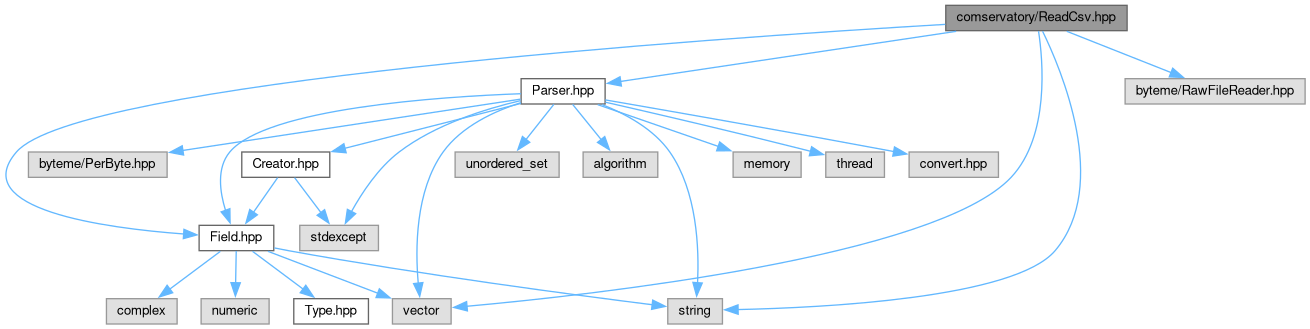
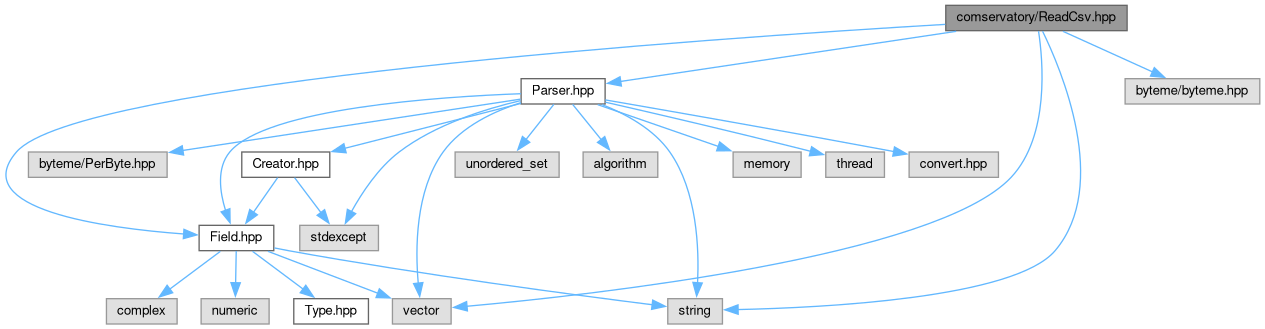
Deploying to gh-pages from @ ArtifactDB/comservatory@23dbaada493801701ff477fba697307410e649ac 🚀

diff --git a/docs/ReadCsv_8hpp_source.html b/docs/ReadCsv_8hpp_source.html
@@ -87,88 +87,84 @@ $(function() {
 <div class="line"><a id="l00007" name="l00007"></a><span class="lineno">    7</span><span class="preprocessor">#include &quot;<a class="code" href="Field_8hpp.html">Field.hpp</a>&quot;</span></div>
 <div class="line"><a id="l00008" name="l00008"></a><span class="lineno">    8</span><span class="preprocessor">#include &quot;<a class="code" href="Parser_8hpp.html">Parser.hpp</a>&quot;</span></div>
 <div class="line"><a id="l00009" name="l00009"></a><span class="lineno">    9</span> </div>
-<div class="line"><a id="l00010" name="l00010"></a><span class="lineno">   10</span><span class="preprocessor">#ifdef COMSERVATORY_USE_ZLIB</span></div>
-<div class="line"><a id="l00011" name="l00011"></a><span class="lineno">   11</span><span class="preprocessor">#include &quot;byteme/SomeFileReader.hpp&quot;</span></div>
-<div class="line"><a id="l00012" name="l00012"></a><span class="lineno">   12</span><span class="preprocessor">#else</span></div>
-<div class="line"><a id="l00013" name="l00013"></a><span class="lineno">   13</span><span class="preprocessor">#include &quot;byteme/RawFileReader.hpp&quot;</span></div>
-<div class="line"><a id="l00014" name="l00014"></a><span class="lineno">   14</span><span class="preprocessor">#endif</span></div>
-<div class="line"><a id="l00015" name="l00015"></a><span class="lineno">   15</span> </div>
-<div class="line"><a id="l00022" name="l00022"></a><span class="lineno">   22</span><span class="keyword">namespace </span><a class="code hl_namespace" href="namespacecomservatory.html">comservatory</a> {</div>
-<div class="line"><a id="l00023" name="l00023"></a><span class="lineno">   23</span> </div>
-<div class="line"><a id="l00027" name="l00027"></a><span class="lineno"><a class="line" href="classcomservatory_1_1ReadCsv.html">   27</a></span><span class="keyword">class </span><a class="code hl_class" href="classcomservatory_1_1ReadCsv.html">ReadCsv</a> {</div>
-<div class="line"><a id="l00028" name="l00028"></a><span class="lineno">   28</span><span class="keyword">public</span>:</div>
-<div class="line"><a id="l00032" name="l00032"></a><span class="lineno"><a class="line" href="classcomservatory_1_1ReadCsv.html#a71b1f3761ad21922489bdccf6df539b4">   32</a></span>    <span class="keywordtype">bool</span> <a class="code hl_variable" href="classcomservatory_1_1ReadCsv.html#a71b1f3761ad21922489bdccf6df539b4">parallel</a> = <span class="keyword">false</span>;</div>
-<div class="line"><a id="l00033" name="l00033"></a><span class="lineno">   33</span> </div>
-<div class="line"><a id="l00038" name="l00038"></a><span class="lineno"><a class="line" href="classcomservatory_1_1ReadCsv.html#a8e0e99b9b76ab2dfc78772350edf4fa3">   38</a></span>    <span class="keywordtype">bool</span> <a class="code hl_variable" href="classcomservatory_1_1ReadCsv.html#a8e0e99b9b76ab2dfc78772350edf4fa3">validate_only</a> = <span class="keyword">false</span>;</div>
-<div class="line"><a id="l00039" name="l00039"></a><span class="lineno">   39</span> </div>
-<div class="line"><a id="l00044" name="l00044"></a><span class="lineno"><a class="line" href="classcomservatory_1_1ReadCsv.html#a7cbd002ff77f75a7622fe0f1661fae8f">   44</a></span>    <span class="keyword">const</span> <a class="code hl_struct" href="structcomservatory_1_1FieldCreator.html">FieldCreator</a>* <a class="code hl_variable" href="classcomservatory_1_1ReadCsv.html#a7cbd002ff77f75a7622fe0f1661fae8f">creator</a> = <span class="keyword">nullptr</span>; </div>
-<div class="line"><a id="l00045" name="l00045"></a><span class="lineno">   45</span> </div>
-<div class="line"><a id="l00050" name="l00050"></a><span class="lineno"><a class="line" href="classcomservatory_1_1ReadCsv.html#add2460c28cdbc9719a158db4ef61516c">   50</a></span>    <span class="keywordtype">bool</span> <a class="code hl_variable" href="classcomservatory_1_1ReadCsv.html#add2460c28cdbc9719a158db4ef61516c">keep_subset</a> = <span class="keyword">false</span>;</div>
-<div class="line"><a id="l00051" name="l00051"></a><span class="lineno">   51</span> </div>
-<div class="line"><a id="l00057" name="l00057"></a><span class="lineno"><a class="line" href="classcomservatory_1_1ReadCsv.html#af9a05178aa2ac853780ca92c4e7b8382">   57</a></span>    std::vector&lt;std::string&gt; <a class="code hl_variable" href="classcomservatory_1_1ReadCsv.html#af9a05178aa2ac853780ca92c4e7b8382">keep_subset_names</a>;</div>
-<div class="line"><a id="l00058" name="l00058"></a><span class="lineno">   58</span> </div>
-<div class="line"><a id="l00065" name="l00065"></a><span class="lineno"><a class="line" href="classcomservatory_1_1ReadCsv.html#a5061fa2455f3ff4c087635de14130e34">   65</a></span>    std::vector&lt;int&gt; <a class="code hl_variable" href="classcomservatory_1_1ReadCsv.html#a5061fa2455f3ff4c087635de14130e34">keep_subset_indices</a>;</div>
-<div class="line"><a id="l00066" name="l00066"></a><span class="lineno">   66</span> </div>
-<div class="line"><a id="l00067" name="l00067"></a><span class="lineno">   67</span><span class="keyword">private</span>:</div>
-<div class="line"><a id="l00068" name="l00068"></a><span class="lineno">   68</span>    <span class="keyword">template</span>&lt;<span class="keyword">class</span> Reader&gt;</div>
-<div class="line"><a id="l00069" name="l00069"></a><span class="lineno">   69</span>    <a class="code hl_struct" href="structcomservatory_1_1Contents.html">Contents</a> load_internal(Reader&amp; reader, <span class="keyword">const</span> <a class="code hl_struct" href="structcomservatory_1_1FieldCreator.html">FieldCreator</a>* <a class="code hl_variable" href="classcomservatory_1_1ReadCsv.html#a7cbd002ff77f75a7622fe0f1661fae8f">creator</a>)<span class="keyword"> const </span>{    </div>
-<div class="line"><a id="l00070" name="l00070"></a><span class="lineno">   70</span>        Parser parser(<a class="code hl_variable" href="classcomservatory_1_1ReadCsv.html#a7cbd002ff77f75a7622fe0f1661fae8f">creator</a>);</div>
-<div class="line"><a id="l00071" name="l00071"></a><span class="lineno">   71</span> </div>
-<div class="line"><a id="l00072" name="l00072"></a><span class="lineno">   72</span>        <span class="keywordflow">if</span> (<a class="code hl_variable" href="classcomservatory_1_1ReadCsv.html#add2460c28cdbc9719a158db4ef61516c">keep_subset</a>) {</div>
-<div class="line"><a id="l00073" name="l00073"></a><span class="lineno">   73</span>            parser.set_check_store(<span class="keyword">true</span>);</div>
-<div class="line"><a id="l00074" name="l00074"></a><span class="lineno">   74</span>            parser.set_store_by_name(<a class="code hl_variable" href="classcomservatory_1_1ReadCsv.html#af9a05178aa2ac853780ca92c4e7b8382">keep_subset_names</a>);</div>
-<div class="line"><a id="l00075" name="l00075"></a><span class="lineno">   75</span>            parser.set_store_by_index(<a class="code hl_variable" href="classcomservatory_1_1ReadCsv.html#a5061fa2455f3ff4c087635de14130e34">keep_subset_indices</a>);</div>
-<div class="line"><a id="l00076" name="l00076"></a><span class="lineno">   76</span>        }</div>
-<div class="line"><a id="l00077" name="l00077"></a><span class="lineno">   77</span> </div>
-<div class="line"><a id="l00078" name="l00078"></a><span class="lineno">   78</span>        <a class="code hl_struct" href="structcomservatory_1_1Contents.html">Contents</a> output;</div>
-<div class="line"><a id="l00079" name="l00079"></a><span class="lineno">   79</span>        parser.parse(reader, output, <a class="code hl_variable" href="classcomservatory_1_1ReadCsv.html#a71b1f3761ad21922489bdccf6df539b4">parallel</a>);</div>
-<div class="line"><a id="l00080" name="l00080"></a><span class="lineno">   80</span>        <span class="keywordflow">return</span> output;</div>
-<div class="line"><a id="l00081" name="l00081"></a><span class="lineno">   81</span>    }</div>
-<div class="line"><a id="l00082" name="l00082"></a><span class="lineno">   82</span> </div>
-<div class="line"><a id="l00083" name="l00083"></a><span class="lineno">   83</span><span class="keyword">public</span>:</div>
-<div class="line"><a id="l00096" name="l00096"></a><span class="lineno">   96</span>    <span class="keyword">template</span>&lt;<span class="keyword">class</span> Reader&gt;</div>
-<div class="line"><a id="l00097" name="l00097"></a><span class="lineno"><a class="line" href="classcomservatory_1_1ReadCsv.html#a87da77b116405a8229f7fafe5fdb87cc">   97</a></span>    <a class="code hl_struct" href="structcomservatory_1_1Contents.html">Contents</a> <a class="code hl_function" href="classcomservatory_1_1ReadCsv.html#a87da77b116405a8229f7fafe5fdb87cc">read</a>(Reader&amp; reader)<span class="keyword"> const </span>{</div>
-<div class="line"><a id="l00098" name="l00098"></a><span class="lineno">   98</span>        <span class="keywordflow">if</span> (<a class="code hl_variable" href="classcomservatory_1_1ReadCsv.html#a8e0e99b9b76ab2dfc78772350edf4fa3">validate_only</a>) {</div>
-<div class="line"><a id="l00099" name="l00099"></a><span class="lineno">   99</span>            DefaultFieldCreator&lt;true&gt; <a class="code hl_variable" href="classcomservatory_1_1ReadCsv.html#a7cbd002ff77f75a7622fe0f1661fae8f">creator</a>;</div>
-<div class="line"><a id="l00100" name="l00100"></a><span class="lineno">  100</span>            <span class="keywordflow">return</span> load_internal(reader, &amp;<a class="code hl_variable" href="classcomservatory_1_1ReadCsv.html#a7cbd002ff77f75a7622fe0f1661fae8f">creator</a>);</div>
-<div class="line"><a id="l00101" name="l00101"></a><span class="lineno">  101</span>        } <span class="keywordflow">else</span> <span class="keywordflow">if</span> (<a class="code hl_variable" href="classcomservatory_1_1ReadCsv.html#a7cbd002ff77f75a7622fe0f1661fae8f">creator</a>) {</div>
-<div class="line"><a id="l00102" name="l00102"></a><span class="lineno">  102</span>            <span class="keywordflow">return</span> load_internal(reader, <a class="code hl_variable" href="classcomservatory_1_1ReadCsv.html#a7cbd002ff77f75a7622fe0f1661fae8f">creator</a>);</div>
-<div class="line"><a id="l00103" name="l00103"></a><span class="lineno">  103</span>        } <span class="keywordflow">else</span> {</div>
-<div class="line"><a id="l00104" name="l00104"></a><span class="lineno">  104</span>            DefaultFieldCreator&lt;false&gt; <a class="code hl_variable" href="classcomservatory_1_1ReadCsv.html#a7cbd002ff77f75a7622fe0f1661fae8f">creator</a>;</div>
-<div class="line"><a id="l00105" name="l00105"></a><span class="lineno">  105</span>            <span class="keywordflow">return</span> load_internal(reader, &amp;<a class="code hl_variable" href="classcomservatory_1_1ReadCsv.html#a7cbd002ff77f75a7622fe0f1661fae8f">creator</a>);</div>
-<div class="line"><a id="l00106" name="l00106"></a><span class="lineno">  106</span>        }</div>
-<div class="line"><a id="l00107" name="l00107"></a><span class="lineno">  107</span>    }</div>
-<div class="line"><a id="l00108" name="l00108"></a><span class="lineno">  108</span> </div>
-<div class="line"><a id="l00109" name="l00109"></a><span class="lineno">  109</span><span class="keyword">public</span>:</div>
-<div class="line"><a id="l00118" name="l00118"></a><span class="lineno"><a class="line" href="classcomservatory_1_1ReadCsv.html#a59dc94d5c58c0c5fa7672b3bbd5a7fb6">  118</a></span>    <a class="code hl_struct" href="structcomservatory_1_1Contents.html">Contents</a> <a class="code hl_function" href="classcomservatory_1_1ReadCsv.html#a59dc94d5c58c0c5fa7672b3bbd5a7fb6">read</a>(<span class="keyword">const</span> <span class="keywordtype">char</span>* path)<span class="keyword"> const </span>{</div>
-<div class="line"><a id="l00119" name="l00119"></a><span class="lineno">  119</span><span class="preprocessor">#ifdef COMSERVATORY_USE_ZLIB</span></div>
-<div class="line"><a id="l00120" name="l00120"></a><span class="lineno">  120</span>        byteme::SomeFileReader reader(path);</div>
-<div class="line"><a id="l00121" name="l00121"></a><span class="lineno">  121</span><span class="preprocessor">#else</span></div>
-<div class="line"><a id="l00122" name="l00122"></a><span class="lineno">  122</span>        byteme::RawFileReader reader(path);</div>
-<div class="line"><a id="l00123" name="l00123"></a><span class="lineno">  123</span><span class="preprocessor">#endif</span></div>
-<div class="line"><a id="l00124" name="l00124"></a><span class="lineno">  124</span>        <span class="keywordflow">return</span> <a class="code hl_function" href="classcomservatory_1_1ReadCsv.html#a87da77b116405a8229f7fafe5fdb87cc">read</a>(reader);</div>
-<div class="line"><a id="l00125" name="l00125"></a><span class="lineno">  125</span>    } </div>
-<div class="line"><a id="l00126" name="l00126"></a><span class="lineno">  126</span> </div>
-<div class="line"><a id="l00135" name="l00135"></a><span class="lineno"><a class="line" href="classcomservatory_1_1ReadCsv.html#acb2534a52ee60e6bc0d37c701fc6e895">  135</a></span>    <a class="code hl_struct" href="structcomservatory_1_1Contents.html">Contents</a> <a class="code hl_function" href="classcomservatory_1_1ReadCsv.html#acb2534a52ee60e6bc0d37c701fc6e895">read</a>(std::string path)<span class="keyword"> const </span>{</div>
-<div class="line"><a id="l00136" name="l00136"></a><span class="lineno">  136</span>        <span class="keywordflow">return</span> <a class="code hl_function" href="classcomservatory_1_1ReadCsv.html#a87da77b116405a8229f7fafe5fdb87cc">read</a>(path.c_str());</div>
-<div class="line"><a id="l00137" name="l00137"></a><span class="lineno">  137</span>    } </div>
-<div class="line"><a id="l00138" name="l00138"></a><span class="lineno">  138</span>};</div>
-<div class="line"><a id="l00139" name="l00139"></a><span class="lineno">  139</span> </div>
-<div class="line"><a id="l00140" name="l00140"></a><span class="lineno">  140</span>}</div>
-<div class="line"><a id="l00141" name="l00141"></a><span class="lineno">  141</span> </div>
-<div class="line"><a id="l00142" name="l00142"></a><span class="lineno">  142</span><span class="preprocessor">#endif</span></div>
+<div class="line"><a id="l00010" name="l00010"></a><span class="lineno">   10</span><span class="preprocessor">#include &quot;byteme/byteme.hpp&quot;</span></div>
+<div class="line"><a id="l00011" name="l00011"></a><span class="lineno">   11</span> </div>
+<div class="line"><a id="l00018" name="l00018"></a><span class="lineno">   18</span><span class="keyword">namespace </span><a class="code hl_namespace" href="namespacecomservatory.html">comservatory</a> {</div>
+<div class="line"><a id="l00019" name="l00019"></a><span class="lineno">   19</span> </div>
+<div class="line"><a id="l00023" name="l00023"></a><span class="lineno"><a class="line" href="classcomservatory_1_1ReadCsv.html">   23</a></span><span class="keyword">class </span><a class="code hl_class" href="classcomservatory_1_1ReadCsv.html">ReadCsv</a> {</div>
+<div class="line"><a id="l00024" name="l00024"></a><span class="lineno">   24</span><span class="keyword">public</span>:</div>
+<div class="line"><a id="l00028" name="l00028"></a><span class="lineno"><a class="line" href="classcomservatory_1_1ReadCsv.html#a71b1f3761ad21922489bdccf6df539b4">   28</a></span>    <span class="keywordtype">bool</span> <a class="code hl_variable" href="classcomservatory_1_1ReadCsv.html#a71b1f3761ad21922489bdccf6df539b4">parallel</a> = <span class="keyword">false</span>;</div>
+<div class="line"><a id="l00029" name="l00029"></a><span class="lineno">   29</span> </div>
+<div class="line"><a id="l00034" name="l00034"></a><span class="lineno"><a class="line" href="classcomservatory_1_1ReadCsv.html#a8e0e99b9b76ab2dfc78772350edf4fa3">   34</a></span>    <span class="keywordtype">bool</span> <a class="code hl_variable" href="classcomservatory_1_1ReadCsv.html#a8e0e99b9b76ab2dfc78772350edf4fa3">validate_only</a> = <span class="keyword">false</span>;</div>
+<div class="line"><a id="l00035" name="l00035"></a><span class="lineno">   35</span> </div>
+<div class="line"><a id="l00040" name="l00040"></a><span class="lineno"><a class="line" href="classcomservatory_1_1ReadCsv.html#a7cbd002ff77f75a7622fe0f1661fae8f">   40</a></span>    <span class="keyword">const</span> <a class="code hl_struct" href="structcomservatory_1_1FieldCreator.html">FieldCreator</a>* <a class="code hl_variable" href="classcomservatory_1_1ReadCsv.html#a7cbd002ff77f75a7622fe0f1661fae8f">creator</a> = <span class="keyword">nullptr</span>; </div>
+<div class="line"><a id="l00041" name="l00041"></a><span class="lineno">   41</span> </div>
+<div class="line"><a id="l00046" name="l00046"></a><span class="lineno"><a class="line" href="classcomservatory_1_1ReadCsv.html#add2460c28cdbc9719a158db4ef61516c">   46</a></span>    <span class="keywordtype">bool</span> <a class="code hl_variable" href="classcomservatory_1_1ReadCsv.html#add2460c28cdbc9719a158db4ef61516c">keep_subset</a> = <span class="keyword">false</span>;</div>
+<div class="line"><a id="l00047" name="l00047"></a><span class="lineno">   47</span> </div>
+<div class="line"><a id="l00053" name="l00053"></a><span class="lineno"><a class="line" href="classcomservatory_1_1ReadCsv.html#af9a05178aa2ac853780ca92c4e7b8382">   53</a></span>    std::vector&lt;std::string&gt; <a class="code hl_variable" href="classcomservatory_1_1ReadCsv.html#af9a05178aa2ac853780ca92c4e7b8382">keep_subset_names</a>;</div>
+<div class="line"><a id="l00054" name="l00054"></a><span class="lineno">   54</span> </div>
+<div class="line"><a id="l00061" name="l00061"></a><span class="lineno"><a class="line" href="classcomservatory_1_1ReadCsv.html#a5061fa2455f3ff4c087635de14130e34">   61</a></span>    std::vector&lt;int&gt; <a class="code hl_variable" href="classcomservatory_1_1ReadCsv.html#a5061fa2455f3ff4c087635de14130e34">keep_subset_indices</a>;</div>
+<div class="line"><a id="l00062" name="l00062"></a><span class="lineno">   62</span> </div>
+<div class="line"><a id="l00063" name="l00063"></a><span class="lineno">   63</span><span class="keyword">private</span>:</div>
+<div class="line"><a id="l00064" name="l00064"></a><span class="lineno">   64</span>    <span class="keyword">template</span>&lt;<span class="keyword">class</span> Reader&gt;</div>
+<div class="line"><a id="l00065" name="l00065"></a><span class="lineno">   65</span>    <a class="code hl_struct" href="structcomservatory_1_1Contents.html">Contents</a> load_internal(Reader&amp; reader, <span class="keyword">const</span> <a class="code hl_struct" href="structcomservatory_1_1FieldCreator.html">FieldCreator</a>* <a class="code hl_variable" href="classcomservatory_1_1ReadCsv.html#a7cbd002ff77f75a7622fe0f1661fae8f">creator</a>)<span class="keyword"> const </span>{    </div>
+<div class="line"><a id="l00066" name="l00066"></a><span class="lineno">   66</span>        Parser parser(<a class="code hl_variable" href="classcomservatory_1_1ReadCsv.html#a7cbd002ff77f75a7622fe0f1661fae8f">creator</a>);</div>
+<div class="line"><a id="l00067" name="l00067"></a><span class="lineno">   67</span> </div>
+<div class="line"><a id="l00068" name="l00068"></a><span class="lineno">   68</span>        <span class="keywordflow">if</span> (<a class="code hl_variable" href="classcomservatory_1_1ReadCsv.html#add2460c28cdbc9719a158db4ef61516c">keep_subset</a>) {</div>
+<div class="line"><a id="l00069" name="l00069"></a><span class="lineno">   69</span>            parser.set_check_store(<span class="keyword">true</span>);</div>
+<div class="line"><a id="l00070" name="l00070"></a><span class="lineno">   70</span>            parser.set_store_by_name(<a class="code hl_variable" href="classcomservatory_1_1ReadCsv.html#af9a05178aa2ac853780ca92c4e7b8382">keep_subset_names</a>);</div>
+<div class="line"><a id="l00071" name="l00071"></a><span class="lineno">   71</span>            parser.set_store_by_index(<a class="code hl_variable" href="classcomservatory_1_1ReadCsv.html#a5061fa2455f3ff4c087635de14130e34">keep_subset_indices</a>);</div>
+<div class="line"><a id="l00072" name="l00072"></a><span class="lineno">   72</span>        }</div>
+<div class="line"><a id="l00073" name="l00073"></a><span class="lineno">   73</span> </div>
+<div class="line"><a id="l00074" name="l00074"></a><span class="lineno">   74</span>        <a class="code hl_struct" href="structcomservatory_1_1Contents.html">Contents</a> output;</div>
+<div class="line"><a id="l00075" name="l00075"></a><span class="lineno">   75</span>        parser.parse(reader, output, <a class="code hl_variable" href="classcomservatory_1_1ReadCsv.html#a71b1f3761ad21922489bdccf6df539b4">parallel</a>);</div>
+<div class="line"><a id="l00076" name="l00076"></a><span class="lineno">   76</span>        <span class="keywordflow">return</span> output;</div>
+<div class="line"><a id="l00077" name="l00077"></a><span class="lineno">   77</span>    }</div>
+<div class="line"><a id="l00078" name="l00078"></a><span class="lineno">   78</span> </div>
+<div class="line"><a id="l00079" name="l00079"></a><span class="lineno">   79</span><span class="keyword">public</span>:</div>
+<div class="line"><a id="l00092" name="l00092"></a><span class="lineno">   92</span>    <span class="keyword">template</span>&lt;<span class="keyword">class</span> Reader&gt;</div>
+<div class="line"><a id="l00093" name="l00093"></a><span class="lineno"><a class="line" href="classcomservatory_1_1ReadCsv.html#a87da77b116405a8229f7fafe5fdb87cc">   93</a></span>    <a class="code hl_struct" href="structcomservatory_1_1Contents.html">Contents</a> <a class="code hl_function" href="classcomservatory_1_1ReadCsv.html#a87da77b116405a8229f7fafe5fdb87cc">read</a>(Reader&amp; reader)<span class="keyword"> const </span>{</div>
+<div class="line"><a id="l00094" name="l00094"></a><span class="lineno">   94</span>        <span class="keywordflow">if</span> (<a class="code hl_variable" href="classcomservatory_1_1ReadCsv.html#a8e0e99b9b76ab2dfc78772350edf4fa3">validate_only</a>) {</div>
+<div class="line"><a id="l00095" name="l00095"></a><span class="lineno">   95</span>            DefaultFieldCreator&lt;true&gt; <a class="code hl_variable" href="classcomservatory_1_1ReadCsv.html#a7cbd002ff77f75a7622fe0f1661fae8f">creator</a>;</div>
+<div class="line"><a id="l00096" name="l00096"></a><span class="lineno">   96</span>            <span class="keywordflow">return</span> load_internal(reader, &amp;<a class="code hl_variable" href="classcomservatory_1_1ReadCsv.html#a7cbd002ff77f75a7622fe0f1661fae8f">creator</a>);</div>
+<div class="line"><a id="l00097" name="l00097"></a><span class="lineno">   97</span>        } <span class="keywordflow">else</span> <span class="keywordflow">if</span> (<a class="code hl_variable" href="classcomservatory_1_1ReadCsv.html#a7cbd002ff77f75a7622fe0f1661fae8f">creator</a>) {</div>
+<div class="line"><a id="l00098" name="l00098"></a><span class="lineno">   98</span>            <span class="keywordflow">return</span> load_internal(reader, <a class="code hl_variable" href="classcomservatory_1_1ReadCsv.html#a7cbd002ff77f75a7622fe0f1661fae8f">creator</a>);</div>
+<div class="line"><a id="l00099" name="l00099"></a><span class="lineno">   99</span>        } <span class="keywordflow">else</span> {</div>
+<div class="line"><a id="l00100" name="l00100"></a><span class="lineno">  100</span>            DefaultFieldCreator&lt;false&gt; <a class="code hl_variable" href="classcomservatory_1_1ReadCsv.html#a7cbd002ff77f75a7622fe0f1661fae8f">creator</a>;</div>
+<div class="line"><a id="l00101" name="l00101"></a><span class="lineno">  101</span>            <span class="keywordflow">return</span> load_internal(reader, &amp;<a class="code hl_variable" href="classcomservatory_1_1ReadCsv.html#a7cbd002ff77f75a7622fe0f1661fae8f">creator</a>);</div>
+<div class="line"><a id="l00102" name="l00102"></a><span class="lineno">  102</span>        }</div>
+<div class="line"><a id="l00103" name="l00103"></a><span class="lineno">  103</span>    }</div>
+<div class="line"><a id="l00104" name="l00104"></a><span class="lineno">  104</span> </div>
+<div class="line"><a id="l00105" name="l00105"></a><span class="lineno">  105</span><span class="keyword">public</span>:</div>
+<div class="line"><a id="l00113" name="l00113"></a><span class="lineno"><a class="line" href="classcomservatory_1_1ReadCsv.html#a59dc94d5c58c0c5fa7672b3bbd5a7fb6">  113</a></span>    <a class="code hl_struct" href="structcomservatory_1_1Contents.html">Contents</a> <a class="code hl_function" href="classcomservatory_1_1ReadCsv.html#a59dc94d5c58c0c5fa7672b3bbd5a7fb6">read</a>(<span class="keyword">const</span> <span class="keywordtype">char</span>* path)<span class="keyword"> const </span>{</div>
+<div class="line"><a id="l00114" name="l00114"></a><span class="lineno">  114</span><span class="preprocessor">#if __has_include(&quot;zlib.h&quot;</span>)</div>
+<div class="line"><a id="l00115" name="l00115"></a><span class="lineno">  115</span>        byteme::SomeFileReader reader(path);</div>
+<div class="line"><a id="l00116" name="l00116"></a><span class="lineno">  116</span><span class="preprocessor">#else</span></div>
+<div class="line"><a id="l00117" name="l00117"></a><span class="lineno">  117</span>        byteme::RawFileReader reader(path);</div>
+<div class="line"><a id="l00118" name="l00118"></a><span class="lineno">  118</span><span class="preprocessor">#endif</span></div>
+<div class="line"><a id="l00119" name="l00119"></a><span class="lineno">  119</span>        <span class="keywordflow">return</span> <a class="code hl_function" href="classcomservatory_1_1ReadCsv.html#a87da77b116405a8229f7fafe5fdb87cc">read</a>(reader);</div>
+<div class="line"><a id="l00120" name="l00120"></a><span class="lineno">  120</span>    } </div>
+<div class="line"><a id="l00121" name="l00121"></a><span class="lineno">  121</span> </div>
+<div class="line"><a id="l00129" name="l00129"></a><span class="lineno"><a class="line" href="classcomservatory_1_1ReadCsv.html#acb2534a52ee60e6bc0d37c701fc6e895">  129</a></span>    <a class="code hl_struct" href="structcomservatory_1_1Contents.html">Contents</a> <a class="code hl_function" href="classcomservatory_1_1ReadCsv.html#acb2534a52ee60e6bc0d37c701fc6e895">read</a>(std::string path)<span class="keyword"> const </span>{</div>
+<div class="line"><a id="l00130" name="l00130"></a><span class="lineno">  130</span>        <span class="keywordflow">return</span> <a class="code hl_function" href="classcomservatory_1_1ReadCsv.html#a87da77b116405a8229f7fafe5fdb87cc">read</a>(path.c_str());</div>
+<div class="line"><a id="l00131" name="l00131"></a><span class="lineno">  131</span>    } </div>
+<div class="line"><a id="l00132" name="l00132"></a><span class="lineno">  132</span>};</div>
+<div class="line"><a id="l00133" name="l00133"></a><span class="lineno">  133</span> </div>
+<div class="line"><a id="l00134" name="l00134"></a><span class="lineno">  134</span>}</div>
+<div class="line"><a id="l00135" name="l00135"></a><span class="lineno">  135</span> </div>
+<div class="line"><a id="l00136" name="l00136"></a><span class="lineno">  136</span><span class="preprocessor">#endif</span></div>
 <div class="ttc" id="aField_8hpp_html"><div class="ttname"><a href="Field_8hpp.html">Field.hpp</a></div><div class="ttdoc">Defines the Field virtual class and concrete implementations.</div></div>
 <div class="ttc" id="aParser_8hpp_html"><div class="ttname"><a href="Parser_8hpp.html">Parser.hpp</a></div><div class="ttdoc">Defines the Contents class for storing the CSV contents.</div></div>
-<div class="ttc" id="aclasscomservatory_1_1ReadCsv_html"><div class="ttname"><a href="classcomservatory_1_1ReadCsv.html">comservatory::ReadCsv</a></div><div class="ttdoc">Read the contents of CSV files into memory.</div><div class="ttdef"><b>Definition:</b> ReadCsv.hpp:27</div></div>
-<div class="ttc" id="aclasscomservatory_1_1ReadCsv_html_a5061fa2455f3ff4c087635de14130e34"><div class="ttname"><a href="classcomservatory_1_1ReadCsv.html#a5061fa2455f3ff4c087635de14130e34">comservatory::ReadCsv::keep_subset_indices</a></div><div class="ttdeci">std::vector&lt; int &gt; keep_subset_indices</div><div class="ttdef"><b>Definition:</b> ReadCsv.hpp:65</div></div>
-<div class="ttc" id="aclasscomservatory_1_1ReadCsv_html_a59dc94d5c58c0c5fa7672b3bbd5a7fb6"><div class="ttname"><a href="classcomservatory_1_1ReadCsv.html#a59dc94d5c58c0c5fa7672b3bbd5a7fb6">comservatory::ReadCsv::read</a></div><div class="ttdeci">Contents read(const char *path) const</div><div class="ttdef"><b>Definition:</b> ReadCsv.hpp:118</div></div>
-<div class="ttc" id="aclasscomservatory_1_1ReadCsv_html_a71b1f3761ad21922489bdccf6df539b4"><div class="ttname"><a href="classcomservatory_1_1ReadCsv.html#a71b1f3761ad21922489bdccf6df539b4">comservatory::ReadCsv::parallel</a></div><div class="ttdeci">bool parallel</div><div class="ttdef"><b>Definition:</b> ReadCsv.hpp:32</div></div>
-<div class="ttc" id="aclasscomservatory_1_1ReadCsv_html_a7cbd002ff77f75a7622fe0f1661fae8f"><div class="ttname"><a href="classcomservatory_1_1ReadCsv.html#a7cbd002ff77f75a7622fe0f1661fae8f">comservatory::ReadCsv::creator</a></div><div class="ttdeci">const FieldCreator * creator</div><div class="ttdef"><b>Definition:</b> ReadCsv.hpp:44</div></div>
-<div class="ttc" id="aclasscomservatory_1_1ReadCsv_html_a87da77b116405a8229f7fafe5fdb87cc"><div class="ttname"><a href="classcomservatory_1_1ReadCsv.html#a87da77b116405a8229f7fafe5fdb87cc">comservatory::ReadCsv::read</a></div><div class="ttdeci">Contents read(Reader &amp;reader) const</div><div class="ttdef"><b>Definition:</b> ReadCsv.hpp:97</div></div>
-<div class="ttc" id="aclasscomservatory_1_1ReadCsv_html_a8e0e99b9b76ab2dfc78772350edf4fa3"><div class="ttname"><a href="classcomservatory_1_1ReadCsv.html#a8e0e99b9b76ab2dfc78772350edf4fa3">comservatory::ReadCsv::validate_only</a></div><div class="ttdeci">bool validate_only</div><div class="ttdef"><b>Definition:</b> ReadCsv.hpp:38</div></div>
-<div class="ttc" id="aclasscomservatory_1_1ReadCsv_html_acb2534a52ee60e6bc0d37c701fc6e895"><div class="ttname"><a href="classcomservatory_1_1ReadCsv.html#acb2534a52ee60e6bc0d37c701fc6e895">comservatory::ReadCsv::read</a></div><div class="ttdeci">Contents read(std::string path) const</div><div class="ttdef"><b>Definition:</b> ReadCsv.hpp:135</div></div>
-<div class="ttc" id="aclasscomservatory_1_1ReadCsv_html_add2460c28cdbc9719a158db4ef61516c"><div class="ttname"><a href="classcomservatory_1_1ReadCsv.html#add2460c28cdbc9719a158db4ef61516c">comservatory::ReadCsv::keep_subset</a></div><div class="ttdeci">bool keep_subset</div><div class="ttdef"><b>Definition:</b> ReadCsv.hpp:50</div></div>
-<div class="ttc" id="aclasscomservatory_1_1ReadCsv_html_af9a05178aa2ac853780ca92c4e7b8382"><div class="ttname"><a href="classcomservatory_1_1ReadCsv.html#af9a05178aa2ac853780ca92c4e7b8382">comservatory::ReadCsv::keep_subset_names</a></div><div class="ttdeci">std::vector&lt; std::string &gt; keep_subset_names</div><div class="ttdef"><b>Definition:</b> ReadCsv.hpp:57</div></div>
+<div class="ttc" id="aclasscomservatory_1_1ReadCsv_html"><div class="ttname"><a href="classcomservatory_1_1ReadCsv.html">comservatory::ReadCsv</a></div><div class="ttdoc">Read the contents of CSV files into memory.</div><div class="ttdef"><b>Definition:</b> ReadCsv.hpp:23</div></div>
+<div class="ttc" id="aclasscomservatory_1_1ReadCsv_html_a5061fa2455f3ff4c087635de14130e34"><div class="ttname"><a href="classcomservatory_1_1ReadCsv.html#a5061fa2455f3ff4c087635de14130e34">comservatory::ReadCsv::keep_subset_indices</a></div><div class="ttdeci">std::vector&lt; int &gt; keep_subset_indices</div><div class="ttdef"><b>Definition:</b> ReadCsv.hpp:61</div></div>
+<div class="ttc" id="aclasscomservatory_1_1ReadCsv_html_a59dc94d5c58c0c5fa7672b3bbd5a7fb6"><div class="ttname"><a href="classcomservatory_1_1ReadCsv.html#a59dc94d5c58c0c5fa7672b3bbd5a7fb6">comservatory::ReadCsv::read</a></div><div class="ttdeci">Contents read(const char *path) const</div><div class="ttdef"><b>Definition:</b> ReadCsv.hpp:113</div></div>
+<div class="ttc" id="aclasscomservatory_1_1ReadCsv_html_a71b1f3761ad21922489bdccf6df539b4"><div class="ttname"><a href="classcomservatory_1_1ReadCsv.html#a71b1f3761ad21922489bdccf6df539b4">comservatory::ReadCsv::parallel</a></div><div class="ttdeci">bool parallel</div><div class="ttdef"><b>Definition:</b> ReadCsv.hpp:28</div></div>
+<div class="ttc" id="aclasscomservatory_1_1ReadCsv_html_a7cbd002ff77f75a7622fe0f1661fae8f"><div class="ttname"><a href="classcomservatory_1_1ReadCsv.html#a7cbd002ff77f75a7622fe0f1661fae8f">comservatory::ReadCsv::creator</a></div><div class="ttdeci">const FieldCreator * creator</div><div class="ttdef"><b>Definition:</b> ReadCsv.hpp:40</div></div>
+<div class="ttc" id="aclasscomservatory_1_1ReadCsv_html_a87da77b116405a8229f7fafe5fdb87cc"><div class="ttname"><a href="classcomservatory_1_1ReadCsv.html#a87da77b116405a8229f7fafe5fdb87cc">comservatory::ReadCsv::read</a></div><div class="ttdeci">Contents read(Reader &amp;reader) const</div><div class="ttdef"><b>Definition:</b> ReadCsv.hpp:93</div></div>
+<div class="ttc" id="aclasscomservatory_1_1ReadCsv_html_a8e0e99b9b76ab2dfc78772350edf4fa3"><div class="ttname"><a href="classcomservatory_1_1ReadCsv.html#a8e0e99b9b76ab2dfc78772350edf4fa3">comservatory::ReadCsv::validate_only</a></div><div class="ttdeci">bool validate_only</div><div class="ttdef"><b>Definition:</b> ReadCsv.hpp:34</div></div>
+<div class="ttc" id="aclasscomservatory_1_1ReadCsv_html_acb2534a52ee60e6bc0d37c701fc6e895"><div class="ttname"><a href="classcomservatory_1_1ReadCsv.html#acb2534a52ee60e6bc0d37c701fc6e895">comservatory::ReadCsv::read</a></div><div class="ttdeci">Contents read(std::string path) const</div><div class="ttdef"><b>Definition:</b> ReadCsv.hpp:129</div></div>
+<div class="ttc" id="aclasscomservatory_1_1ReadCsv_html_add2460c28cdbc9719a158db4ef61516c"><div class="ttname"><a href="classcomservatory_1_1ReadCsv.html#add2460c28cdbc9719a158db4ef61516c">comservatory::ReadCsv::keep_subset</a></div><div class="ttdeci">bool keep_subset</div><div class="ttdef"><b>Definition:</b> ReadCsv.hpp:46</div></div>
+<div class="ttc" id="aclasscomservatory_1_1ReadCsv_html_af9a05178aa2ac853780ca92c4e7b8382"><div class="ttname"><a href="classcomservatory_1_1ReadCsv.html#af9a05178aa2ac853780ca92c4e7b8382">comservatory::ReadCsv::keep_subset_names</a></div><div class="ttdeci">std::vector&lt; std::string &gt; keep_subset_names</div><div class="ttdef"><b>Definition:</b> ReadCsv.hpp:53</div></div>
 <div class="ttc" id="anamespacecomservatory_html"><div class="ttname"><a href="namespacecomservatory.html">comservatory</a></div><div class="ttdoc">Contains all comservatory functions and classes.</div><div class="ttdef"><b>Definition:</b> Field.hpp:16</div></div>
 <div class="ttc" id="astructcomservatory_1_1Contents_html"><div class="ttname"><a href="structcomservatory_1_1Contents.html">comservatory::Contents</a></div><div class="ttdoc">The parsed contents of a CSV file.</div><div class="ttdef"><b>Definition:</b> Parser.hpp:37</div></div>
 <div class="ttc" id="astructcomservatory_1_1FieldCreator_html"><div class="ttname"><a href="structcomservatory_1_1FieldCreator.html">comservatory::FieldCreator</a></div><div class="ttdoc">Virtual base class for a Field creator.</div><div class="ttdef"><b>Definition:</b> Creator.hpp:23</div></div>

diff --git a/docs/index.html b/docs/index.html
@@ -163,10 +163,10 @@ $(function() {
 <div class="line">reader.<a class="code hl_variable" href="classcomservatory_1_1ReadCsv.html#a5061fa2455f3ff4c087635de14130e34">keep_subset_indices</a> = std::vector&lt;int&gt;{ 3, 4 };</div>
 <div class="line"> </div>
 <div class="line"><span class="keyword">auto</span> contents = reader.<a class="code hl_function" href="classcomservatory_1_1ReadCsv.html#a87da77b116405a8229f7fafe5fdb87cc">read</a>(path);</div>
-<div class="ttc" id="aclasscomservatory_1_1ReadCsv_html"><div class="ttname"><a href="classcomservatory_1_1ReadCsv.html">comservatory::ReadCsv</a></div><div class="ttdoc">Read the contents of CSV files into memory.</div><div class="ttdef"><b>Definition:</b> ReadCsv.hpp:27</div></div>
-<div class="ttc" id="aclasscomservatory_1_1ReadCsv_html_a5061fa2455f3ff4c087635de14130e34"><div class="ttname"><a href="classcomservatory_1_1ReadCsv.html#a5061fa2455f3ff4c087635de14130e34">comservatory::ReadCsv::keep_subset_indices</a></div><div class="ttdeci">std::vector&lt; int &gt; keep_subset_indices</div><div class="ttdef"><b>Definition:</b> ReadCsv.hpp:65</div></div>
-<div class="ttc" id="aclasscomservatory_1_1ReadCsv_html_a87da77b116405a8229f7fafe5fdb87cc"><div class="ttname"><a href="classcomservatory_1_1ReadCsv.html#a87da77b116405a8229f7fafe5fdb87cc">comservatory::ReadCsv::read</a></div><div class="ttdeci">Contents read(Reader &amp;reader) const</div><div class="ttdef"><b>Definition:</b> ReadCsv.hpp:97</div></div>
-<div class="ttc" id="aclasscomservatory_1_1ReadCsv_html_af9a05178aa2ac853780ca92c4e7b8382"><div class="ttname"><a href="classcomservatory_1_1ReadCsv.html#af9a05178aa2ac853780ca92c4e7b8382">comservatory::ReadCsv::keep_subset_names</a></div><div class="ttdeci">std::vector&lt; std::string &gt; keep_subset_names</div><div class="ttdef"><b>Definition:</b> ReadCsv.hpp:57</div></div>
+<div class="ttc" id="aclasscomservatory_1_1ReadCsv_html"><div class="ttname"><a href="classcomservatory_1_1ReadCsv.html">comservatory::ReadCsv</a></div><div class="ttdoc">Read the contents of CSV files into memory.</div><div class="ttdef"><b>Definition:</b> ReadCsv.hpp:23</div></div>
+<div class="ttc" id="aclasscomservatory_1_1ReadCsv_html_a5061fa2455f3ff4c087635de14130e34"><div class="ttname"><a href="classcomservatory_1_1ReadCsv.html#a5061fa2455f3ff4c087635de14130e34">comservatory::ReadCsv::keep_subset_indices</a></div><div class="ttdeci">std::vector&lt; int &gt; keep_subset_indices</div><div class="ttdef"><b>Definition:</b> ReadCsv.hpp:61</div></div>
+<div class="ttc" id="aclasscomservatory_1_1ReadCsv_html_a87da77b116405a8229f7fafe5fdb87cc"><div class="ttname"><a href="classcomservatory_1_1ReadCsv.html#a87da77b116405a8229f7fafe5fdb87cc">comservatory::ReadCsv::read</a></div><div class="ttdeci">Contents read(Reader &amp;reader) const</div><div class="ttdef"><b>Definition:</b> ReadCsv.hpp:93</div></div>
+<div class="ttc" id="aclasscomservatory_1_1ReadCsv_html_af9a05178aa2ac853780ca92c4e7b8382"><div class="ttname"><a href="classcomservatory_1_1ReadCsv.html#af9a05178aa2ac853780ca92c4e7b8382">comservatory::ReadCsv::keep_subset_names</a></div><div class="ttdeci">std::vector&lt; std::string &gt; keep_subset_names</div><div class="ttdef"><b>Definition:</b> ReadCsv.hpp:53</div></div>
 </div><!-- fragment --><p >If only validation is required, we can avoid storing contents in memory by setting <code>validate_only = true</code>.</p>
 <div class="fragment"><div class="line">comservatory::ReadCsv reader;</div>
 <div class="line">reader.validate_only = true;</div>
@@ -201,10 +201,8 @@ $(function() {
 </div><!-- fragment --><h3>Manual</h3>
 <p >If you're not using CMake, the simple approach is to just copy the files in the <code>include/</code> subdirectory - either directly or with Git submodules - and include their path during compilation with, e.g., GCC's <code>-I</code>. You will also need to link to <a href="https://github.com/LTLA/byteme"><b>byteme</b></a> directory, along with the Zlib library.</p>
 <h2>Handling other inputs</h2>
-<p >Gzipped CSVs are supported by <code>load()</code> once the <code>COMSERVATORY_USE_ZLIB</code> macro is defined and the library is linked to Zlib. With CMake, this usually involves the following commands:</p>
-<div class="fragment"><div class="line">target_compile_definitions(libtest PRIVATE COMSERVATORY_USE_ZLIB=1)</div>
-<div class="line">target_link_libraries(libtest ZLIB::ZLIB)</div>
-</div><!-- fragment --><p >Other inputs are supported via the <code>load()</code> overload for <a href="https://github.com/LTLA/byteme"><code>byteme::Reader</code></a> classes. For example, we can parse a CSV file from an in-memory Zlib-compressed buffer:</p>
+<p >Gzipped CSVs are automatically supported by <code>load()</code> once <b>comservatory</b> is compiled with Zlib support.</p>
+<p >Other inputs are supported via the <code>load()</code> overload for <a href="https://github.com/LTLA/byteme"><code>byteme::Reader</code></a> classes. For example, we can parse a CSV file from an in-memory Zlib-compressed buffer:</p>
 <div class="fragment"><div class="line"><span class="preprocessor">#include &quot;byteme/ZlibBufferReader.hpp&quot;</span></div>
 <div class="line"> </div>
 <div class="line">byteme::ZlibBufferReader reader(buffer, length);</div>
@@ -302,7 +300,7 @@ $(function() {
 <div class="line"><a class="code hl_class" href="classcomservatory_1_1ReadCsv.html">comservatory::ReadCsv</a> reader;</div>
 <div class="line">reader.<a class="code hl_variable" href="classcomservatory_1_1ReadCsv.html#a7cbd002ff77f75a7622fe0f1661fae8f">creator</a> = &amp;custom;</div>
 <div class="line"><span class="keyword">auto</span> deqcontents = reader.<a class="code hl_function" href="classcomservatory_1_1ReadCsv.html#a87da77b116405a8229f7fafe5fdb87cc">read</a>(path);</div>
-<div class="ttc" id="aclasscomservatory_1_1ReadCsv_html_a7cbd002ff77f75a7622fe0f1661fae8f"><div class="ttname"><a href="classcomservatory_1_1ReadCsv.html#a7cbd002ff77f75a7622fe0f1661fae8f">comservatory::ReadCsv::creator</a></div><div class="ttdeci">const FieldCreator * creator</div><div class="ttdef"><b>Definition:</b> ReadCsv.hpp:44</div></div>
+<div class="ttc" id="aclasscomservatory_1_1ReadCsv_html_a7cbd002ff77f75a7622fe0f1661fae8f"><div class="ttname"><a href="classcomservatory_1_1ReadCsv.html#a7cbd002ff77f75a7622fe0f1661fae8f">comservatory::ReadCsv::creator</a></div><div class="ttdeci">const FieldCreator * creator</div><div class="ttdef"><b>Definition:</b> ReadCsv.hpp:40</div></div>
 </div><!-- fragment --><h1>Links</h1>
 <p >If you see any bugs, report them in the <a href="https://github.com/ArtifactDB/comservatory/issues">Issues</a>. Pull requests are also welcome. </p>
 </div></div><!-- PageDoc -->

diff --git a/docs/ReadCsv_8hpp.html b/docs/ReadCsv_8hpp.html
@@ -88,7 +88,7 @@ $(function() {
 <code>#include &lt;string&gt;</code><br />
 <code>#include &quot;<a class="el" href="Field_8hpp_source.html">Field.hpp</a>&quot;</code><br />
 <code>#include &quot;<a class="el" href="Parser_8hpp_source.html">Parser.hpp</a>&quot;</code><br />
-<code>#include &quot;byteme/RawFileReader.hpp&quot;</code><br />
+<code>#include &quot;byteme/byteme.hpp&quot;</code><br />
 </div><div class="textblock"><div class="dynheader">
 Include dependency graph for ReadCsv.hpp:</div>
 <div class="dyncontent">
@@ -99,7 +99,7 @@ Include dependency graph for ReadCsv.hpp:</div>
 <area shape="rect" title=" " alt="" coords="668,299,722,324"/>
 <area shape="rect" href="Field_8hpp.html" title="Defines the Field virtual class and concrete implementations." alt="" coords="199,225,274,251"/>
 <area shape="rect" href="Parser_8hpp.html" title="Defines the Contents class for storing the CSV contents." alt="" coords="521,79,605,104"/>
-<area shape="rect" title=" " alt="" coords="1125,79,1305,104"/>
+<area shape="rect" title=" " alt="" coords="1125,79,1260,104"/>
 <area shape="rect" title=" " alt="" coords="106,299,177,324"/>
 <area shape="rect" title=" " alt="" coords="201,299,269,324"/>
 <area shape="rect" href="Type_8hpp.html" title="Defines the Type enumeration for field types." alt="" coords="294,299,368,324"/>

diff --git a/docs/classcomservatory_1_1ReadCsv.html b/docs/classcomservatory_1_1ReadCsv.html
@@ -155,7 +155,7 @@ Public Attributes</h2></td></tr>
   </dd>
 </dl>
 <dl class="section return"><dt>Returns</dt><dd>The <code><a class="el" href="structcomservatory_1_1Contents.html" title="The parsed contents of a CSV file.">Contents</a></code> of the CSV file.</dd></dl>
-<p>Gzip support requires the <code>COMSERVATORY_USE_ZLIB</code> macro to be defined, and for the library to be linked against Zlib. </p>
+<p>Gzip support requires linking to the Zlib library. </p>
 
 </div>
 </div>
@@ -232,7 +232,7 @@ template&lt;class Reader &gt; </div>
   </dd>
 </dl>
 <dl class="section return"><dt>Returns</dt><dd>The <code><a class="el" href="structcomservatory_1_1Contents.html" title="The parsed contents of a CSV file.">Contents</a></code> of the CSV file.</dd></dl>
-<p>Gzip support requires the <code>COMSERVATORY_USE_ZLIB</code> macro to be defined, and for the library to be linked against Zlib. </p>
+<p>Gzip support requires linking to the Zlib library. </p>
 
 </div>
 </div>

diff --git a/docs/comservatory_8hpp.html b/docs/comservatory_8hpp.html
@@ -95,7 +95,7 @@ Include dependency graph for comservatory.hpp:</div>
 <area shape="rect" title=" " alt="" coords="668,372,722,397"/>
 <area shape="rect" href="Field_8hpp.html" title="Defines the Field virtual class and concrete implementations." alt="" coords="199,299,274,324"/>
 <area shape="rect" href="Parser_8hpp.html" title="Defines the Contents class for storing the CSV contents." alt="" coords="521,152,605,177"/>
-<area shape="rect" title=" " alt="" coords="1125,152,1305,177"/>
+<area shape="rect" title=" " alt="" coords="1125,152,1260,177"/>
 <area shape="rect" title=" " alt="" coords="106,372,177,397"/>
 <area shape="rect" title=" " alt="" coords="201,372,269,397"/>
 <area shape="rect" href="Type_8hpp.html" title="Defines the Type enumeration for field types." alt="" coords="294,372,368,397"/>
